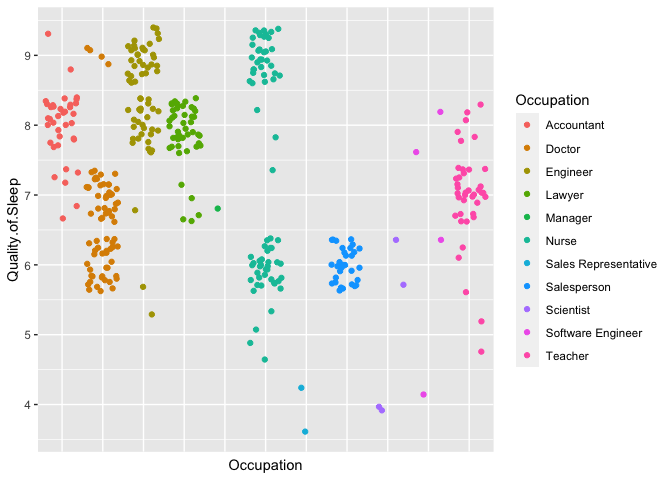
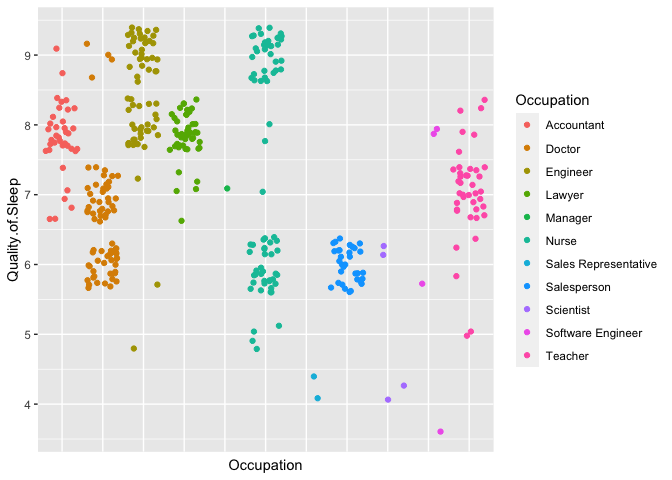
Knit last commit(s)

diff --git a/README.md b/README.md
@@ -108,26 +108,120 @@ What are the variables that you will be using in the main part of the report? Wh
 # Results
 
 <!--
-Correlations between:
-&#10;disorder and: stress level, gender, occupation
-&#10;sleep quality and: heart rate, occupation
-&#10;What occupation has the worst sleep quality? highest incidence of disorder?
-&#10;which disorder is most prevalent among highest stressed?
--->
+&#10;-->
+
+What occupation has the worst sleep quality? Highest incidence of
+disorder?
+
+Sleep disorder by occupation probability table.
+
+    ##                       
+    ##                          Insomnia       None Sleep Apnea
+    ##   Accountant           0.18918919 0.81081081  0.00000000
+    ##   Doctor               0.04225352 0.90140845  0.05633803
+    ##   Engineer             0.07936508 0.90476190  0.01587302
+    ##   Lawyer               0.04255319 0.89361702  0.06382979
+    ##   Manager              0.00000000 1.00000000  0.00000000
+    ##   Nurse                0.04109589 0.12328767  0.83561644
+    ##   Sales Representative 0.00000000 0.00000000  1.00000000
+    ##   Salesperson          0.90625000 0.06250000  0.03125000
+    ##   Scientist            0.00000000 0.50000000  0.50000000
+    ##   Software Engineer    0.25000000 0.75000000  0.00000000
+    ##   Teacher              0.67500000 0.22500000  0.10000000
+
+There are a few oddly high proportions in the table. This is due to a
+small number of observations for certain occupations. The table below
+examines the row count of each observation.
+
+    ## 
+    ##           Accountant               Doctor             Engineer 
+    ##                   37                   71                   63 
+    ##               Lawyer              Manager                Nurse 
+    ##                   47                    1                   73 
+    ## Sales Representative          Salesperson            Scientist 
+    ##                    2                   32                    4 
+    ##    Software Engineer              Teacher 
+    ##                    4                   40
+
+Manager (1), Sales Rep (2), Scientist (4) and Software Engineers (4) all
+contain substantially lower row counts than the remaining occupations.
+
+Sleep disorder by occupation probability table w/o aforementioned
+occupations.
+
+    ##              
+    ##                 Insomnia       None Sleep Apnea
+    ##   Accountant  0.18918919 0.81081081  0.00000000
+    ##   Doctor      0.04225352 0.90140845  0.05633803
+    ##   Engineer    0.07936508 0.90476190  0.01587302
+    ##   Lawyer      0.04255319 0.89361702  0.06382979
+    ##   Nurse       0.04109589 0.12328767  0.83561644
+    ##   Salesperson 0.90625000 0.06250000  0.03125000
+    ##   Teacher     0.67500000 0.22500000  0.10000000
+
+Salespeople (0.06) had the lowest proportion of neither disorders,
+followed by nurses (0.12) and teachers (0.23). The other four
+occupations all had relatively high proportions of neither disorders.
+
+Average sleep quality by occupation.
+
+    ##    Occupation Quality.of.Sleep
+    ## 1  Accountant         7.891892
+    ## 2      Doctor         6.647887
+    ## 3    Engineer         8.412698
+    ## 4      Lawyer         7.893617
+    ## 5       Nurse         7.369863
+    ## 6 Salesperson         6.000000
+    ## 7     Teacher         6.975000
+
+Salespeople (6.0) reported the lowest sleep quality, followed by doctors
+(6.65) and teachers (6.98).
+
+Which disorder is most prevalent among highest stressed?
+
+Sleep disorder by stress level probability table.
+
+    ##    
+    ##       Insomnia       None Sleep Apnea
+    ##   7 0.82000000 0.06000000  0.12000000
+    ##   8 0.04285714 0.47142857  0.48571429
+
+Correlations
+
+Convert character variables to numeric variables.
+
+Correlations between disorder and: stress level, gender, occupation.
+
+    ## [1] -0.0360578
+
+    ## [1] -0.2534153
+
+    ## [1] -0.1698002
+
+None of the correlations suggest a relationship.
+
+Correlations between sleep quality and: heart rate, occupation.
+
+    ## [1] -0.6598647
+
+    ## [1] -0.2780711
+
+None of the correlations suggest a relationship.
+
 <!--
 &#10;Each line of exploration is supposed to be featured in one of the Results sections. Make sure to change to more interesting section headers!
-&#10;## Results 1
-&#10;In your write-up, make sure to refer to all of the figures you create. You can include a hyperlink to the [scatterplot](#fig:scatterplot) by using the name of the code chunk (make sure, to give each code chunk a different name). In your markdown document you can create this link either by calling the function `chunkref` with the name of the code chunk in quotes, i.e. `` r chunkref("scatterplot") `` or by using the markdown expression `[scatterplot](#fig:scatterplot)`. Similarly, we can refer to the [2nd scatterplot](#fig:2nd scatterplot). Note that the figure captions appear above the figures - this saves us from having to scroll up after following the link.
-&#10;<p><small><strong><a name='fig:scatterplot'>scatterplot</a></strong>: This is the figure caption. Make sure to use the description we practised in the homework: first sentence describes structure of the plot, second sentence describes main finding, third sentence describes outliers/follow-up.</small></p>![This is the figure caption. Make sure to use the description we practised in the homework: first sentence describes structure of the plot, second sentence describes main finding, third sentence describes outliers/follow-up.](README_files/figure-gfm/scatterplot-1.png)
-&#10;<p><small><strong><a name='fig:2nd scatterplot'>2nd scatterplot</a></strong>: This is the figure caption. Make sure to use the description we practised in the homework: first sentence describes structure of the plot, second sentence describes main finding, third sentence describes outliers/follow-up.</small></p>![This is the figure caption. Make sure to use the description we practised in the homework: first sentence describes structure of the plot, second sentence describes main finding, third sentence describes outliers/follow-up.](README_files/figure-gfm/2nd scatterplot-1.png)
-&#10;Additionally, you can also refer to different sections in your writeup by using anchors (links) to section headers. Here, we are referring to subsection [Results 3]. The code for that is `[Results 3]`.
-&#10;## Results 2
-&#10;## Results 3
+&#10;Figure 1: BMI
+Bar chart of BMI in the population split into three categories: 'Normal', 'Obese' and 'Overweight'. 'Normal' is most frequent followed by 'Overweight' and then 'Obese'.
+&#10;Figure 2: Gender
+Bar chart of gender in the population. As expected, the gender distribution is nearly split 50/50.
+&#10;Figure 3: Sleep Quality by Occupation
+Scatterplot of sleep quality by occupation.
 &#10;...
 &#10;# Conclusions
-&#10;Give a quick summary of your work. Here is the place to be a bit critical and discuss potential limitations. Add a sentence on what else you would have liked to include in your data exploration if you had more time or more members in your team. 
+&#10;unfortunately, the data wasn't super telling. We didn't walk away with any strong trends or patterns.
 &#10;## Data source {.unnumbered}
 &#10;Where does the data come from, who owns the data? Where are all the scripts that you need to clean the data?
+&#10;The data is from Kaggle. The Kaggle author is Laksika Tharmalingam
 &#10;-->
 
 ## References
